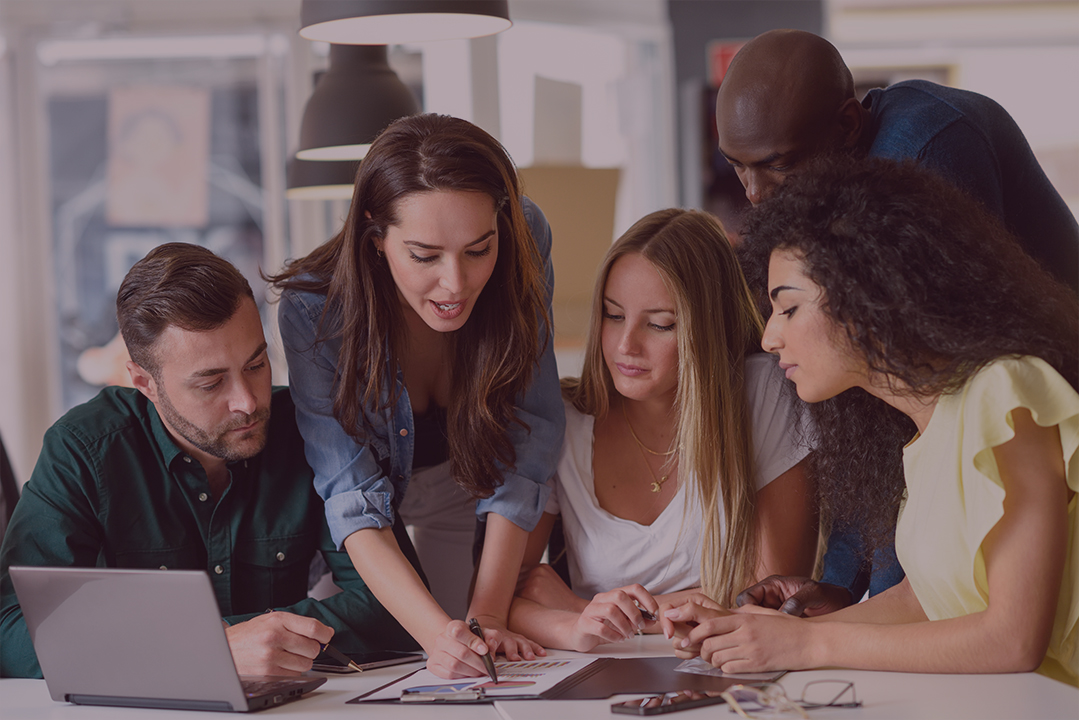
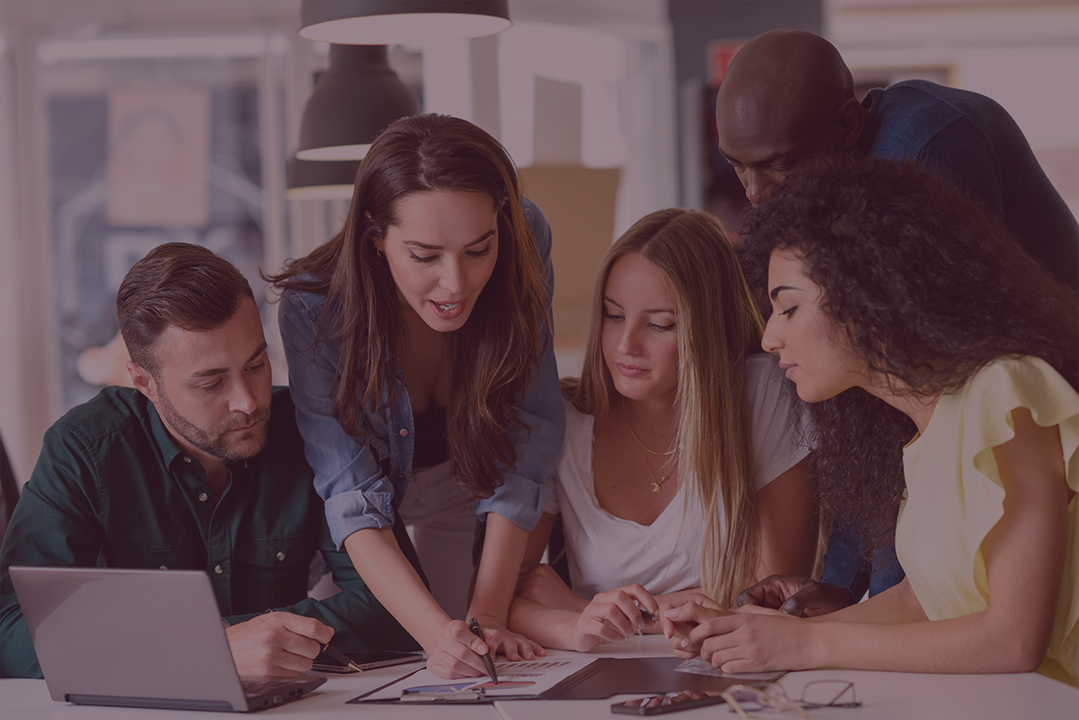
purple opacity
opacity increased from 30% to 55%

diff --git a/index.html b/index.html
@@ -53,11 +53,11 @@
     <section id="header" style="background-image: url('img/9891.jpg'); background-repeat: no-repeat; background-size: cover;">
 
       <div class="container" >
-        <div class="text-center" style="margin: 12%; color: white;font-size: 26px;" >
+        <div class="text-center" style="margin-bottom: 12%; margin-top: 12%; color: white;font-size: 24px;" >
           <!---<img class="img-fluid" src="img/htfc.png" alt="HTFC" style="padding-top: 100px">-->
             <h2 class="text-center" style="padding-top: 10%; padding-bottom: 2%" >Hi-Tech For Change</h2>
               <hr class="star-primary" style="padding-bottom: 2%">
-                 <h3 class="text-center" style="padding-bottom: 10%;">Creating technological and economic empowerment across borders</h3>
+                 <h3 class="text-center" style="padding-bottom: 10%; font-size: 34px;">Creating technological and economic empowerment across borders</h3>
       </div>
       </div>
     </section>
